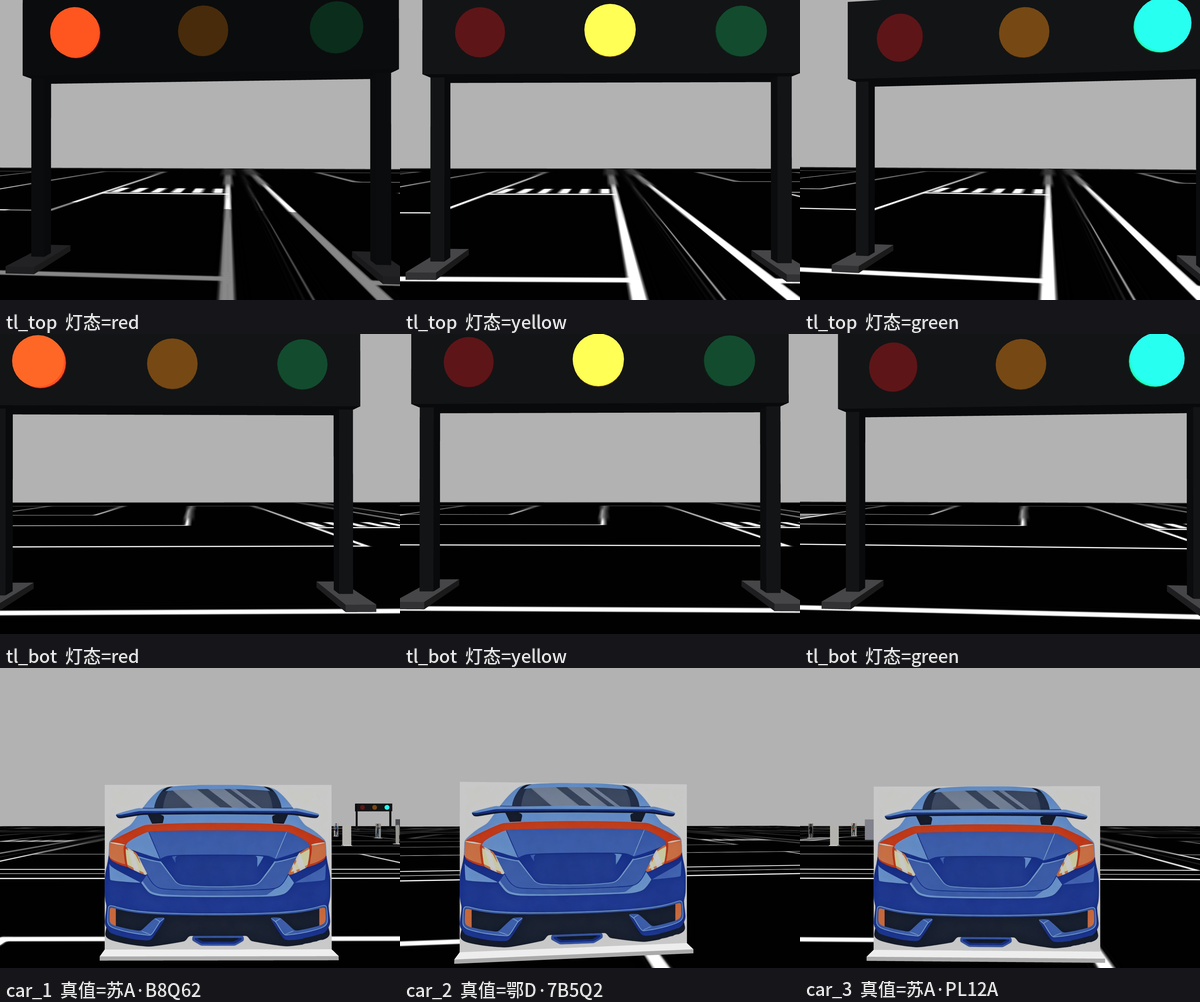
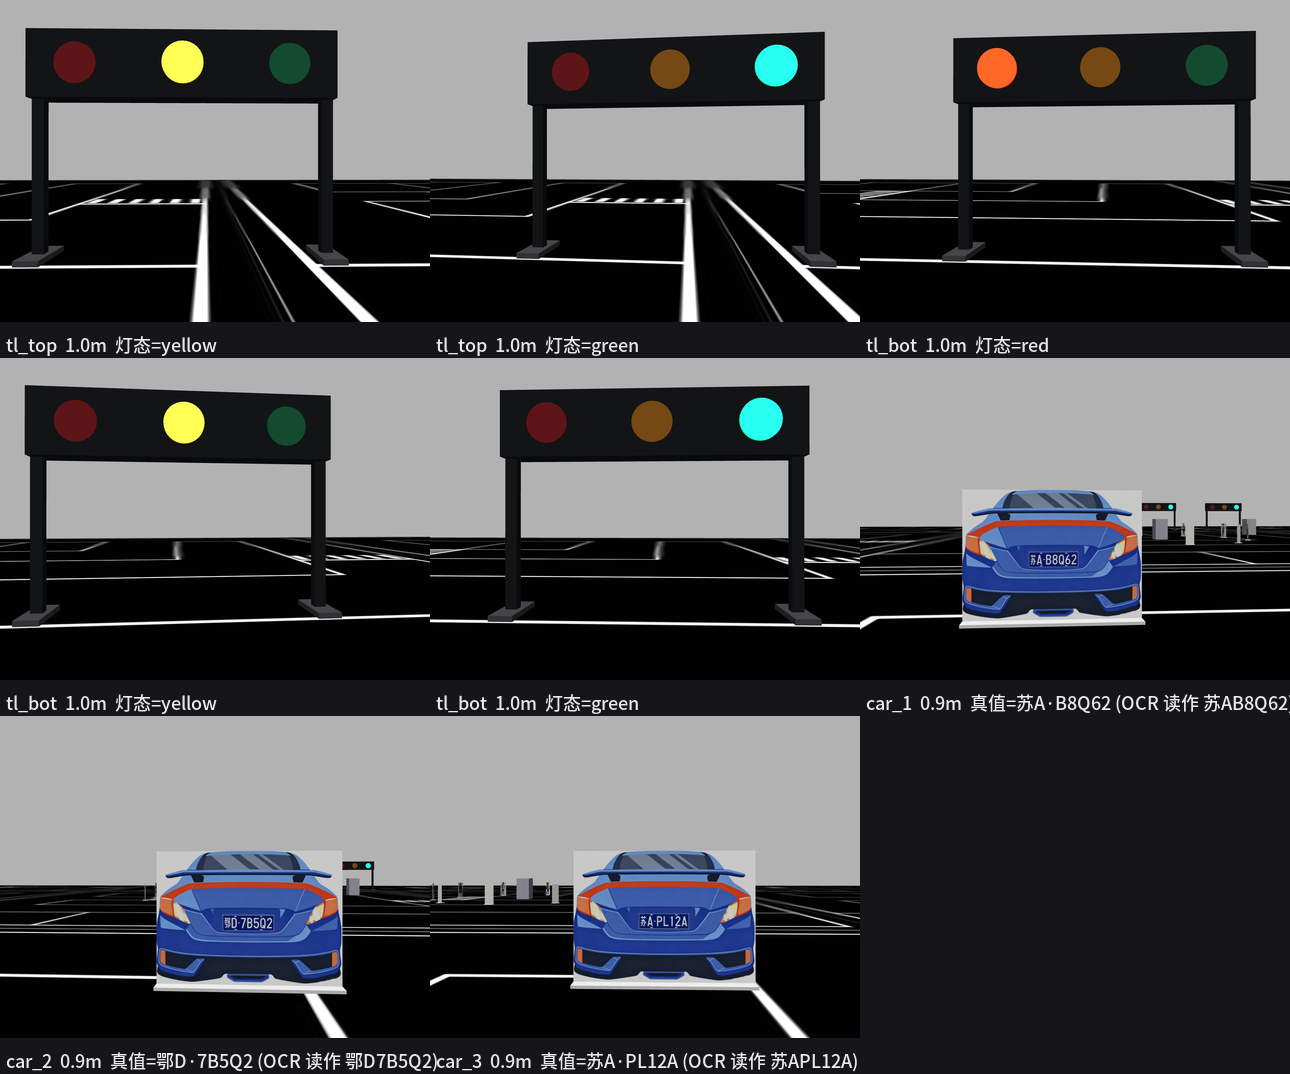
修采集世界的两个朝向/距离问题 + 加距离扫描与'目标必须拍全'守卫
1) 车牌拍不到: 车牌在车体局部 +x 面, 采集车放在 +x 侧 -> 车必须 yaw=0;
   最初抄了比赛 world spawn 的 3.1416, 车牌朝 -x, 拍的全是车尾 ✗
   (例图里没有车牌就是这么来的) -> CAR_YAW=0.0
2) 灯箱拍不全: 0.8m 时灯箱顶部距画面边缘只剩 76px; 拍全需 d>=0.68m
   -> --light-dists 默认改 1.0:2.0:0.25 (距离扫描, 即'车在前后一段距离来回移动')
   -> 新增 --frame-margin 守卫: 灯箱/车牌必须完整在画面内才采, 否则换距离/重抽
3) --light-dists/--car-dists 支持 '起:止:步长' 写法

实测: 车牌 HyperLPR3 端到端 9/9 全对 (0.6/0.9/1.2m 三距离);
      红绿灯 11/11 三颗灯珠盘都在画面里; 规划 119/119 目标在画面内
docs/collect_world.md + 例图已更新

diff --git a/tools/gen_collect_dataset.py b/tools/gen_collect_dataset.py
@@ -83,6 +83,31 @@ def boxes_from_layout(layout):
     return out
 
 
+def full_in_frame(pts, x, y, yaw, rob, margin=8.0):
+    """整个目标(8 个角点)是否都在画面内 (留 margin 像素边距)。
+
+    ★ 灯箱/车牌要"拍全": 红绿灯在 0.8m 时灯箱顶部只剩 76px 就贴边了 ✗,
+      所以这两个工位要求**完整可见**, 不满足就换距离/重抽。
+    """
+    u, v, dep = G_proj(pts, x, y, yaw, rob)
+    if (dep < 0.05).any():
+        return False
+    return bool(((u >= margin) & (u < rob['W'] - margin) &
+                 (v >= margin) & (v < rob['H'] - margin)).all())
+
+
+def dists_of(spec):
+    """'1.0,1.4,1.8' 或 '1.0:2.0:0.25' (起:止:步长) -> 距离列表"""
+    if ':' in spec:
+        a, b, c = [float(v) for v in spec.split(':')]
+        out, x = [], a
+        while x <= b + 1e-9:
+            out.append(round(x, 3))
+            x += c
+        return out
+    return [float(v) for v in spec.split(',') if v.strip()]
+
+
 def visible_names(objs, x, y, yaw, rob):
     """这一帧里大致能看到哪些物体 (投影粗判, 位置精度受 #10 影响, 但"在不在画面里"够用)"""
     names = []
@@ -115,7 +140,12 @@ def G_proj(pts, x, y, yaw, rob):
 # =============================================================================
 #  拍摄规划
 # =============================================================================
+skipped_full = [0]          # 因"目标拍不全"被跳过的位姿数
+
+
 def plan(layout, args, rng):
+    skipped_full[0] = 0
+    args.rob = G.load_robot()
     # ★ 必须用 boxes_from_layout() 的结果: 它才带 3D 角点 ('pts')。
     #   直接用 layout['objects'] 会在 visible_names() 里 KeyError。
     objs = boxes_from_layout(layout)
@@ -148,30 +178,46 @@ def plan(layout, args, rng):
             plans.append(dict(phase='ring', target=o['name'], x=got[0], y=got[1],
                               yaw=got[2], dist=got[3], light=None))
 
-    # ---- B 红绿灯 (每种状态都拍) ----
+    # ---- B 红绿灯 (距离扫描 x 三种状态, 且灯箱必须完整在画面里) ----
     for o in lights:
         for st in args.light_states.split(','):
-            for d in [float(v) for v in args.light_dists.split(',')]:
+            for d in dists_of(args.light_dists):
                 for _ in range(args.per):
+                    got = None
+                    for _try in range(30):
+                        lat = rng.uniform(-args.lat_jitter, args.lat_jitter)
+                        x = o['x'] + d + rng.uniform(-0.03, 0.03)
+                        y = o['y'] + lat
+                        yaw = wrap(math.atan2(o['y'] - y, o['x'] - x)
+                                   + math.radians(rng.uniform(-4, 4)))
+                        if full_in_frame(o['pts'], x, y, yaw, args.rob, args.frame_margin):
+                            got = (x, y, yaw)
+                            break
+                    if got is None:
+                        skipped_full[0] += 1
+                        continue
+                    plans.append(dict(phase='light', target=o['name'], x=got[0], y=got[1],
+                                      yaw=got[2], dist=d, light=st.strip()))
+
+    # ---- C 车牌 (距离扫描, 车牌必须完整在画面里) ----
+    for o in cars:
+        for d in dists_of(args.car_dists):
+            for _ in range(args.per):
+                got = None
+                for _try in range(30):
                     lat = rng.uniform(-args.lat_jitter, args.lat_jitter)
-                    x = o['x'] + d
+                    x = o['x'] + d + rng.uniform(-0.03, 0.03)
                     y = o['y'] + lat
                     yaw = wrap(math.atan2(o['y'] - y, o['x'] - x)
-                               + math.radians(rng.uniform(-4, 4)))
-                    plans.append(dict(phase='light', target=o['name'], x=x, y=y, yaw=yaw,
-                                      dist=d, light=st.strip()))
-
-    # ---- C 车牌 ----
-    for o in cars:
-        for d in [float(v) for v in args.car_dists.split(',')]:
-            for _ in range(args.per):
-                lat = rng.uniform(-args.lat_jitter, args.lat_jitter)
-                x = o['x'] + d
-                y = o['y'] + lat
-                yaw = wrap(math.atan2(o['y'] - y, o['x'] - x)
-                           + math.radians(rng.uniform(-5, 5)))
-                plans.append(dict(phase='plate', target=o['name'], x=x, y=y, yaw=yaw,
-                                  dist=d, light=None))
+                               + math.radians(rng.uniform(-5, 5)))
+                    if full_in_frame(o['pts'], x, y, yaw, args.rob, args.frame_margin):
+                        got = (x, y, yaw)
+                        break
+                if got is None:
+                    skipped_full[0] += 1
+                    continue
+                plans.append(dict(phase='plate', target=o['name'], x=got[0], y=got[1],
+                                  yaw=got[2], dist=d, light=None))
     return plans, objs
 
 
@@ -313,8 +359,12 @@ def main():
     ap.add_argument('--lat-jitter', type=float, default=0.06, help='侧向抖动 (m)')
     ap.add_argument('--per', type=int, default=1, help='每个 (距离/状态) 拍几张')
     ap.add_argument('--light-states', default='red,yellow,green')
-    ap.add_argument('--light-dists', default='0.8,1.2,1.6')
+    ap.add_argument('--light-dists', default='1.0:2.0:0.25',
+                    help='红绿灯距离扫描: "起:止:步长" 或逗号列表。'
+                         '★ 别小于 1.0m —— 灯箱顶部在 0.68m 就贴到画面边缘了')
     ap.add_argument('--car-dists', default='0.6,0.9,1.2')
+    ap.add_argument('--frame-margin', type=float, default=8.0,
+                    help='灯箱/车牌要求完整在画面内, 留这么多像素边距')
     ap.add_argument('--img-ext', default='jpg', choices=['jpg', 'png'])
     ap.add_argument('--jpeg-quality', type=int, default=92)
     ap.add_argument('--robot-model', default='competition_robot')
@@ -361,8 +411,10 @@ def main():
         rob = G.load_robot()
         hit = sum(1 for p in plans if p['target'] in
                   visible_names(objs, p['x'], p['y'], p['yaw'], rob))
-        print('  目标在画面里的比例(投影粗判): %d/%d = %.0f%%'
-              % (hit, len(plans), 100.0 * hit / max(1, len(plans))))
+        print('  目标在画面里的比例(投影粗判): %d/%d = %.0f%%%s'
+              % (hit, len(plans), 100.0 * hit / max(1, len(plans)),
+                 ('   (另有 %d 个位姿因"拍不全"被跳过)' % skipped_full[0])
+                 if skipped_full[0] else ''))
         return 0
 
     os.makedirs(a.out, exist_ok=True)

diff --git a/tools/build_collect_world.py b/tools/build_collect_world.py
@@ -53,7 +53,9 @@ LIGHT_X, LIGHT_YS = -3.00, [2.05, 0.85]
 LIGHT_NAMES = ['tl_top', 'tl_bot']
 # ---- 工位 C: 车牌 (车头/车牌朝 +x, 车从 +x 侧对着拍) ----
 CAR_X, CAR_YS = 3.00, [-1.10, 0.10, 1.30]
-CAR_YAW = math.pi          # 与比赛 world 里 spawn 的朝向一致 (车牌朝 +x)
+# ★ 车牌朝哪边: 车牌在车体局部 **+x** 面, 采集车又放在 +x 侧, 所以这里必须 yaw=0
+#   (最初抄了比赛 world 的 3.1416, 结果车牌朝 -x, 拍到的全是车尾 —— 例图里没车牌 ✗)
+CAR_YAW = 0.0
 FLOOR_TILE = 4.4           # arena_floor 单块尺寸
 FLOOR_N = 3                # 3x3 铺满 -> 13.2 x 13.2
 
